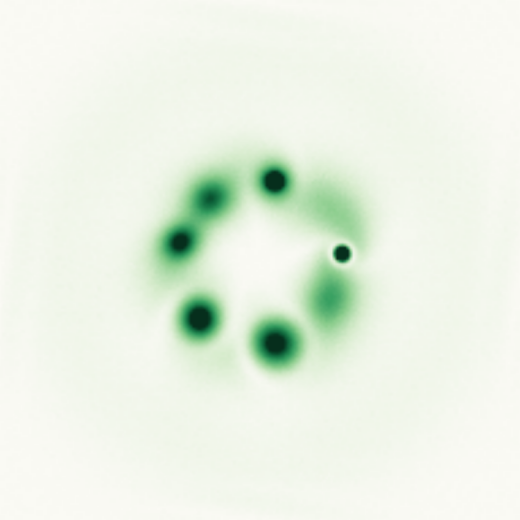
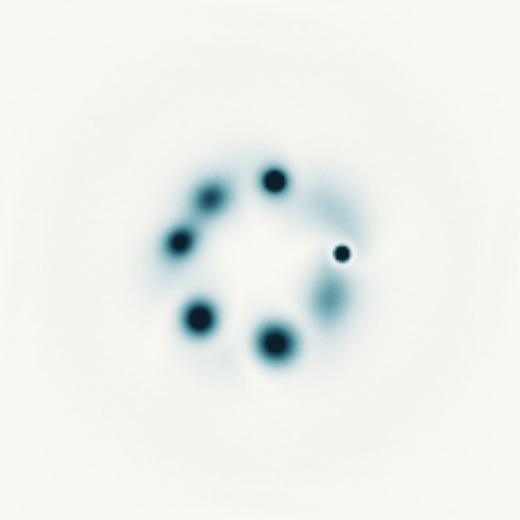
feat(soliton): ink palette, a dB view that actually differs, tighter text
- back to the single 墨青 ramp: fewer knobs, and it matches the paper look
  of the other apps
- the intensity toggle now switches between a linear ramp and a 30 dB
  window, so switching it on reveals the radiation rings around the core
  (before, both mappings were normalised the same way and looked alike);
  linear stays the default, the dB view is one click away
- the 方程 text is shorter, and formulas are word-joined so |ψ|² never
  wraps with its exponent on the next line

Changed region(s): [[0.2769, 0.2769, 0.7385, 0.7385]]

diff --git a/apps/Physics/Soliton.py b/apps/Physics/Soliton.py
@@ -18,18 +18,23 @@ from common.qt_base import (
 from common.field_canvas import ArrayCanvas
 from support.physics.nls import NLSE, PALETTE, PRESETS
 
+
+def nb(text):
+    """Word-join a formula so it never wraps in the middle (|psi|^2 stays whole)."""
+    return "\u2060".join(text)
+
+
+SQUARED_PSI = nb("|ψ|²")
+
 EQUATION_HTML = (
     '<div style="font-size:13px; color:#1b1b1b;">i&thinsp;∂ψ/∂t = −½∇²ψ − |ψ|²ψ</div>'
     '<div style="font-size:10px; color:#4a4a4a; margin-top:5px;">'
-    "非线性光学：强光抬高折射率（Kerr 效应），n = n₀ + n₂I，I ∝ |ψ|²，"
-    "亮处等效势更低——光束等于给自己磨了一枚透镜，越亮越聚。</div>"
+    "Kerr 效应：强光抬高介质折射率 n = n₀ + n₂I，而 I ∝ " + SQUARED_PSI +
+    "——亮处势更低，光束给自己磨一枚透镜。</div>"
     '<div style="font-size:10px; color:#4a4a4a; margin-top:3px;">'
-    "衍射想摊开、自聚焦想收紧：低于阈值散开，超过阈值坍缩；二维恰是临界维度。</div>"
+    "衍射想摊开，自聚焦想收紧：低于阈值散开，超过则坍缩。</div>"
     '<div style="font-size:11px; color:#1b1b1b; margin-top:5px;">'
-    "饱和：|ψ|² → |ψ|²/(1 + |ψ|²/I<sub>s</sub>)</div>"
-    '<div style="font-size:10px; color:#5c5c5c; margin-top:2px;">'
-    "两级介质的布居差 ∝ 1/(1+I/I<sub>s</sub>)，故 Δn ∝ I/(1+I/I<sub>s</sub>)："
-    "弱光回到 Kerr，强光封顶，坍缩停在有限尺度。</div>"
+    "饱和 " + nb("|ψ|²/(1 + |ψ|²/I") + "<sub>s</sub>)：强光时 Δn 封顶，坍缩停在有限尺度。</div>"
 )
 
 EQUATION_TIP = (
@@ -58,7 +63,7 @@ class SolitonCanvas(ArrayCanvas):
         self.setCursor(Qt.CrossCursor)
         self.window = window
         self.sim = NLSE()
-        self.log_view = True
+        self.log_view = False
         self.palette = PALETTE
 
     def render_frame(self):
@@ -149,8 +154,11 @@ class MainWindow(LabWindow):
         run_layout = QVBoxLayout(run_box)
         self.steps_slider = LabeledSlider("每帧步数", 1, 24, 3)
         run_layout.addWidget(self.steps_slider)
-        self.log_check = QCheckBox("对数强度")
-        self.log_check.setChecked(True)
+        self.log_check = QCheckBox("对数强度（−30 dB）")
+        self.log_check.setChecked(False)
+        self.log_check.setToolTip(
+            "线性档只看得到主瓣；对数档把 30 dB 内的辐射环一起压进色阶。"
+        )
         self.log_check.toggled.connect(self.on_log)
         run_layout.addWidget(self.log_check)
         column.addWidget(run_box)

diff --git a/support/physics/nls.py b/support/physics/nls.py
@@ -16,17 +16,15 @@ from __future__ import annotations
 
 import numpy as np
 
-# 只有一个色阶：激光本身的颜色（532 nm 的绿光），从纸白到深绿。
-# 强度越高越深，和 Connection 的纸感取色一致。
-PALETTE = "绿光"
+# 单一色阶：墨青，从纸白到近黑的深蓝，和 Connection 的取色一致。
+PALETTE = "墨青"
 PALETTES = {
     PALETTE: (
-        (0.00, (250, 250, 244)),
-        (0.16, (214, 236, 204)),
-        (0.40, (138, 205, 140)),
-        (0.66, (52, 158, 96)),
-        (0.86, (16, 104, 62)),
-        (1.00, (6, 46, 28)),
+        (0.00, (250, 248, 242)),
+        (0.18, (208, 224, 226)),
+        (0.42, (126, 178, 186)),
+        (0.68, (48, 112, 130)),
+        (1.00, (12, 32, 44)),
     ),
 }
 
@@ -53,17 +51,19 @@ def palette_lut(palette=PALETTE):
     return table
 
 
-def apply_palette(values, palette=PALETTE, log=False, gamma=0.7, percentile=99.5):
+def apply_palette(values, palette=PALETTE, log=False, gamma=0.7, percentile=99.5,
+                  floor_db=30.0):
     """Map a non-negative field to uint8 RGB through a paper-ish ramp.
 
     Scaling uses a high percentile rather than the maximum: a collapsing
     spike is orders of magnitude brighter than the filaments around it and
     would otherwise flatten everything else to paper white.
+
+    `log=True` switches to a fixed dB window (`floor_db` deep) instead of a
+    linear ramp, which is what makes faint radiation rings visible.
     """
     field = np.asarray(values, dtype=float)
     field = np.clip(field, 0.0, None)
-    if log:
-        field = np.log1p(field)
     if field.size == 0:
         return np.zeros(field.shape + (3,), dtype=np.uint8)
     # 参考量取高分位（抽样后再算，省掉一次全量排序）
@@ -74,7 +74,13 @@ def apply_palette(values, palette=PALETTE, log=False, gamma=0.7, percentile=99.5
     if reference <= 0.0:
         height, width = field.shape
         return np.full((height, width, 3), PALETTES[palette][0][1], dtype=np.uint8)
-    norm = np.clip(field / reference, 0.0, 1.0) ** gamma
+    if log:
+        # dB 窗口：把主瓣外的辐射环压进可见范围（默认 60 dB）
+        ratio = np.clip(field / reference, 1e-12, 1.0)
+        db = 10.0 * np.log10(ratio)
+        norm = np.clip((db + floor_db) / floor_db, 0.0, 1.0)
+    else:
+        norm = np.clip(field / reference, 0.0, 1.0) ** gamma
     index = np.clip(norm * 255.0, 0.0, 255.0).astype(np.uint8)
     return palette_lut(palette)[index]
 

diff --git a/tests/test_nls.py b/tests/test_nls.py
@@ -124,6 +124,17 @@ class TestPalette(unittest.TestCase):
         # 绝大多数像素仍在色阶中段，而不是被单个尖峰压成白纸
         self.assertLess(float(rgb.mean()), 250.0)
 
+    def test_log_view_lifts_faint_structure(self):
+        # 一个很弱的像素在线性档几乎看不见，在 dB 档要被抬进色阶
+        field = np.zeros((64, 64))
+        field[32, 32] = 1.0
+        field[10, 10] = 3.0e-2          # −15 dB：线性档几乎白，dB 档落到中段
+        linear = apply_palette(field, log=False)
+        log = apply_palette(field, log=True)
+        self.assertGreater(int(linear[10, 10].mean()) - int(log[10, 10].mean()), 60)
+        # 峰值两端仍要区分：中心比外围深
+        self.assertLess(int(log[32, 32].mean()), int(log[10, 10].mean()))
+
     def test_empty_field_falls_back_to_paper(self):
         rgb = apply_palette(np.zeros((8, 8)))
         self.assertEqual(rgb.shape, (8, 8, 3))
